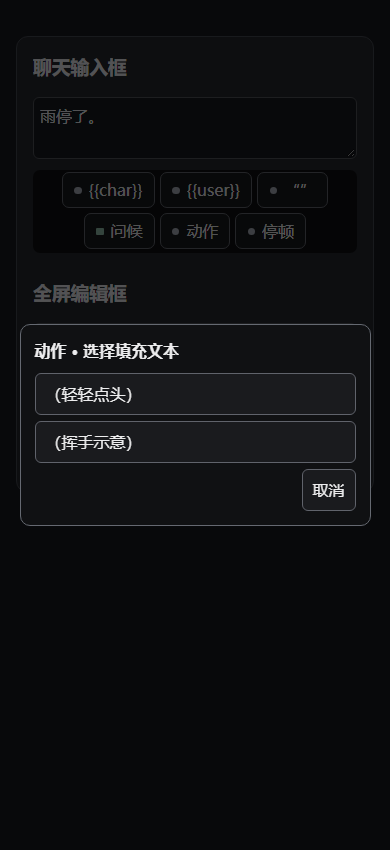
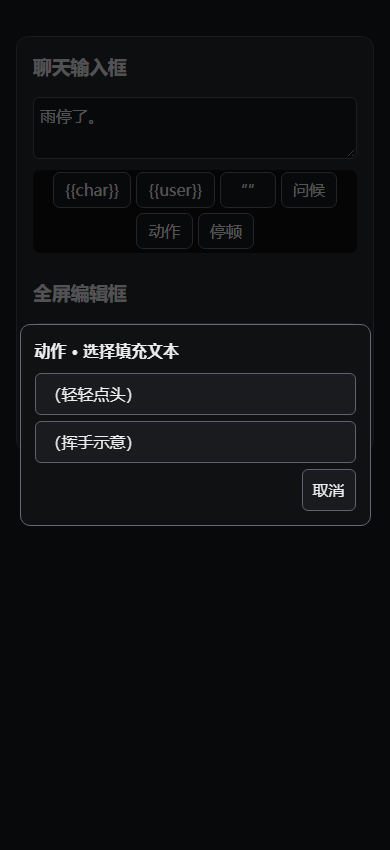
允许配置内置短语的显示位置并简化工具栏按钮

Changed region(s): [[0.1538, 0.2141, 0.8615, 0.3059]]

diff --git a/tools/editor-phrases.js b/tools/editor-phrases.js
@@ -127,10 +127,6 @@ export function addPhraseSettings(canvas, config) {
         visible.append(checkbox, '显示在工具栏');
         heading.append(element('h4', '', '短语设置'), visible);
         settings.append(heading);
-        if (phrase.builtin) {
-            settings.append(element('p', 'st-phrase-hint', phrase.name + ' · 内置短语，可调整顺序和显示状态。'));
-            return;
-        }
         const fields = element('div', 'st-phrase-fields');
         function field(title, control) {
             const label = element('label', '', title);
@@ -138,16 +134,20 @@ export function addPhraseSettings(canvas, config) {
             label.append(control);
             fields.append(label);
         }
-        const name = element('input');
-        name.value = phrase.name;
-        name.required = true;
-        name.oninput = () => { phrase.name = name.value; drawLists(); };
-        field('按钮名称', name);
+        if (!phrase.builtin) {
+            const name = element('input');
+            name.value = phrase.name;
+            name.required = true;
+            name.oninput = () => { phrase.name = name.value; drawLists(); };
+            field('按钮名称', name);
+        }
         const position = element('select');
         for (const [value, label] of positions) position.add(new Option(label, value));
         position.value = phrase.position;
         position.onchange = () => { phrase.position = position.value; drawLists(); };
         field('显示位置', position);
+        settings.append(fields);
+        if (phrase.builtin) return;
         const alternatives = element('div', 'st-phrase-alternatives');
         const title = element('div', 'st-phrases-heading');
         const append = button('＋ 添加文本', 'st-phrase-action');
@@ -192,7 +192,6 @@ export function addPhraseSettings(canvas, config) {
             add.focus();
         };
         fields.append(remove);
-        settings.append(fields);
     }
 
     add.onclick = () => {

diff --git a/style.css b/style.css
@@ -89,7 +89,7 @@
 .st-phrase-legend, .st-phrase-strip { display: flex; flex-wrap: wrap; align-items: center; }
 .st-phrase-legend { gap: 4px 16px; font-size: .8em; color: #bfc2c8; margin: 10px 0; }
 .st-phrase-strip { gap: 6px; padding: 10px; border-radius: 8px; background: #090a0b; justify-content: var(--phrase-align); }
-:is(.st-phrase-legend, .st-phrase-strip, .st-my-tweaks-editor-shortcuts) > [data-position]::before {
+:is(.st-phrase-legend, .st-phrase-strip) > [data-position]::before {
     content: '';
     display: inline-block;
     width: .48em;
@@ -99,8 +99,8 @@
     vertical-align: .1em;
     margin-right: .42em;
 }
-:is(.st-phrase-legend, .st-phrase-strip, .st-my-tweaks-editor-shortcuts) > [data-position="chat"]::before { background: #94c2ae; border-radius: 1px; }
-:is(.st-phrase-legend, .st-phrase-strip, .st-my-tweaks-editor-shortcuts) > [data-position="fullscreen"]::before { background: #b7a9cf; border-radius: 0; transform: rotate(45deg); }
+:is(.st-phrase-legend, .st-phrase-strip) > [data-position="chat"]::before { background: #94c2ae; border-radius: 1px; }
+:is(.st-phrase-legend, .st-phrase-strip) > [data-position="fullscreen"]::before { background: #b7a9cf; border-radius: 0; transform: rotate(45deg); }
 .st-phrase-chip { zoom: var(--phrase-scale); touch-action: none; cursor: grab; }
 .st-phrase-chip:active { cursor: grabbing; }
 .st-phrase-chip.muted { background: #101113; color: #b6b7bc; border-style: dashed; }

diff --git a/tools/expanded-editor-shortcuts.js b/tools/expanded-editor-shortcuts.js
@@ -226,7 +226,6 @@ function createToolbar(getEditor, config, position) {
         const button = document.createElement('button');
         button.type = 'button';
         button.textContent = shortcut.name;
-        button.dataset.position = shortcut.position;
         if (shortcut.texts?.length > 1) enableTextPicker(button, getEditor, shortcut);
         if (shortcut.builtin === 'quotes') {
             button.setAttribute('aria-label', '插入或切换引号');

diff --git a/README.md b/README.md
@@ -129,11 +129,11 @@ Windows 创建符号链接需要启用开发者模式或使用有相应权限的
 
 点击工具旁的「设置」可选择左对齐、居中或右对齐，并将按钮缩放设为 75%–150%。默认居中、100%。点击「保存」后设置立即生效，并随 SillyTavern 用户设置保存。
 
-「快捷短语」按统一顺序横向排列，圆点表示两处共用，方块表示仅输入框，菱形表示仅全屏，虚线按钮表示已隐藏。点选按钮后，在下方独立的「短语设置」区切换显隐；自定义短语还可修改名称、显示位置和填充文本，或删除。点击「添加短语」可新建。拖动按钮可排序，也可用左右方向键调整顺序。两个工具栏分别按列表顺序显示适用于当前位置的短语。
+设置中的「快捷短语」按统一顺序横向排列，圆点表示两处共用，方块表示仅输入框，菱形表示仅全屏，虚线按钮表示已隐藏。点选按钮后，在下方独立的「短语设置」区选择显示位置和切换显隐；自定义短语还可修改名称和填充文本，或删除。点击「添加短语」可新建。拖动按钮可排序，也可用左右方向键调整顺序。两个工具栏分别按列表顺序显示适用于当前位置的短语。
 
 自定义短语可以保存多条填充文本，每条都支持换行。在「短语设置」中点「添加文本」可追加候选项。单击快捷按钮会等概率插入其中一条；长按约半秒会列出全部候选，点选后插入光标处或替换原选区。取消选择会保留原文。旧版短语的文本会作为第一项保留。
 
-内置短语固定用于两处，可排序和切换显隐。除默认显示的两个宏和中文引号外，还有默认隐藏的 `[]`、`{}`、`""` 和 `**`。这些按钮在光标两侧各插入一个符号；有选区时包裹选区，再次点击可解除包裹。
+内置短语的显示位置默认为两处，也可分别设为「仅输入框」或「仅全屏」。除默认显示的两个宏和中文引号外，还有默认隐藏的 `[]`、`{}`、`""` 和 `**`。这些按钮在光标两侧各插入一个符号；有选区时包裹选区，再次点击可解除包裹。
 
 ## 提示词编辑工具栏
 
